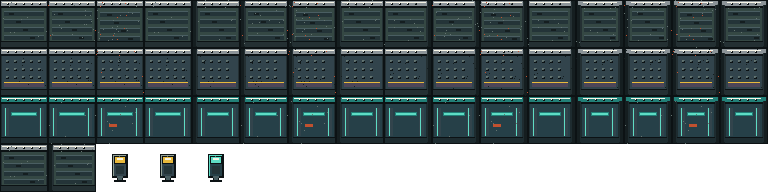
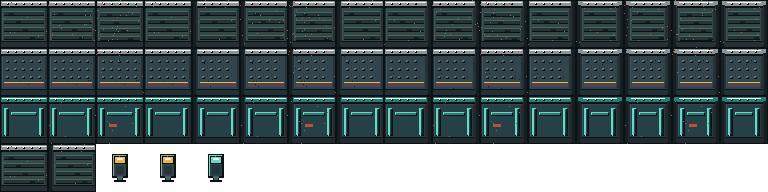
feat: denser wall volume, kit plates, and quieter actor lamp wash
Keep surveyor materials readable under the carried lamp while cliff
faces, hostiles, and title glass carry more named-palette mass.

diff --git a/src/art/paint/walls.ts b/src/art/paint/walls.ts
@@ -3,7 +3,7 @@ import { Material, Theme } from '../../scenes/theme';
 import { envPalette } from '../palette';
 import type { Frame } from '../pack';
 import { Px, TILE } from '../px';
-import { bevelRect, grit } from '../shade';
+import { bevelRect, grit, volume } from '../shade';
 
 export type WallStyle = 'cliff' | 'bulkhead' | 'conduit';
 export const WALL_WEAR_COUNT = 3;
@@ -45,6 +45,11 @@ function paintWall(style: WallStyle, role: number, wear: number): Px {
     TILE - 16,
     mix(face, Material.recess, 0.12),
   );
+  const faceLit =
+    style === 'cliff' ? Material.rockLit : style === 'bulkhead' ? Material.deckLit : mix(Material.conduit, Theme.biolum, 0.28);
+  px.fillRect(insetL + 1, 8, 1, TILE - 16, mix(face, faceLit, 0.55));
+  px.fillRect(insetL + 1, 8, TILE - insetL - insetR - 2, 1, mix(face, faceLit, 0.4));
+  px.fillRect(TILE - insetR - 2, 9, 1, TILE - 17, mix(face, Theme.groundDeep, 0.38));
   px.fillRect(insetL, 1, TILE - insetL - insetR, 5, crown);
   px.fillRect(insetL + 1, 2, TILE - insetL - insetR - 2, 1, Theme.inkBright);
   px.fillRect(insetL, 6, TILE - insetL - insetR, 2, Theme.groundDeep);
@@ -60,7 +65,8 @@ function paintWall(style: WallStyle, role: number, wear: number): Px {
     for (let i = 0; i < 4; i++) {
       const y = 11 + i * 8 + (wear === 2 ? 1 : 0);
       px.fillRect(insetL + 3, y, TILE - insetL - insetR - 6, 5, mix(Material.rock, Theme.groundDeep, 0.22));
-      px.fillRect(insetL + 3, y, TILE - insetL - insetR - 6, 1, mix(Theme.inkMute, face, 0.4));
+      px.fillRect(insetL + 3, y, TILE - insetL - insetR - 6, 1, Material.rockLit);
+      px.fillRect(insetL + 3, y + 4, TILE - insetL - insetR - 6, 1, Theme.groundDeep);
       px.fillRect(insetL + 8 + i * 7 + wear, y + 2, 5, 2, Material.recess);
     }
     grit(px, Theme.inkMute, 12 + wear * 6, 20 + role * 3 + wear);
@@ -79,12 +85,20 @@ function paintWall(style: WallStyle, role: number, wear: number): Px {
     if (wear === 2) grit(px, Theme.rust, 8, 99);
   } else {
     const pipe = mix(Material.conduit, Theme.biolumDeep, 0.3);
-    px.fillRect(insetL + 3, 12, 5, 28, pipe);
-    px.fillRect(TILE - insetR - 8, 12, 5, 28, pipe);
+    bevelRect(px, insetL + 3, 12, 5, 28, Theme.biolum, pipe, Theme.groundDeep, Theme.biolumDeep, Material.recess);
+    bevelRect(px, TILE - insetR - 8, 12, 5, 28, Theme.biolum, pipe, Theme.groundDeep, Theme.biolumDeep, Material.recess);
     px.fillRect(insetL + 4, 12, 1, 28, Theme.biolum);
     px.fillRect(TILE - insetR - 7, 12, 1, 28, Theme.biolum);
-    px.fillRect(insetL + 10, 16, TILE - insetL - insetR - 20, 4, Theme.biolumDeep);
-    px.fillRect(insetL + 11, 17, TILE - insetL - insetR - 22, 2, Theme.biolum);
+    bevelRect(
+      px,
+      insetL + 10,
+      16,
+      TILE - insetL - insetR - 20,
+      4,
+      Theme.biolum,
+      Theme.biolumDeep,
+      Theme.groundDeep,
+    );
     if (wear === 2) {
       px.fillRect(insetL + 12, 28, 8, 3, Theme.rust);
       grit(px, Theme.inkMute, 10, 55 + wear);
@@ -105,9 +119,11 @@ function paintSconce(style: WallStyle): Px {
   const body = cool ? Material.conduit : Material.deck;
   const glow = cool ? Theme.biolum : Theme.tape;
   bevelRect(px, 16, 10, 16, 24, Theme.inkMute, body, Theme.groundDeep, cool ? Theme.biolum : Theme.inkDim, Theme.groundDeep);
+  volume(px, body, Theme.inkMute, Theme.groundDeep, Theme.groundDeep, cool ? Theme.biolumDeep : Theme.inkDim);
   px.fillRect(18, 12, 12, 8, Theme.groundDeep);
   px.fillRect(19, 13, 10, 6, glow);
   px.fillRect(21, 14, 6, 2, Theme.inkBright);
+  px.set(22, 14, Theme.arcWhite);
   px.fillRect(20, 22, 8, 8, mix(body, Theme.groundDeep, 0.3));
   px.fillRect(21, 32, 6, 4, Theme.panelEdge);
   px.fillRect(18, 36, 12, 2, Theme.groundDeep);

diff --git a/src/art/paint/actors.ts b/src/art/paint/actors.ts
@@ -56,6 +56,9 @@ function paintShape(
       }
       px.fillEllipse(24, 32 + bob, 16, 8, mid);
       volume(px, mid, lit, deep, rim, lift);
+      bevelRect(px, 12, 28 + bob, 8, 5, lit, mid, deep, lift, rim);
+      bevelRect(px, 20, 27 + bob, 8, 6, lit, mid, deep, lift, rim);
+      bevelRect(px, 28, 28 + bob, 8, 5, lit, mid, deep, lift, rim);
       px.fillRect(12, 28 + bob, 24, 2, lit);
       px.fillRect(10, 31 + bob, 4, 3, deep);
       px.fillRect(34, 31 + bob, 4, 3, deep);
@@ -152,6 +155,8 @@ function paintShape(
           jointLeg(px, lx, 34 + bob, 43 + bob, kick, deep, rim);
         }
         volume(px, mid, lit, deep, rim, lift);
+        bevelRect(px, 16, 26 + bob, 8, 5, lit, mid, deep, lift, rim);
+        bevelRect(px, 24, 26 + bob, 8, 5, lit, mid, deep, lift, rim);
         px.fillRect(17, 28 + bob, 14, 2, threat);
         eyes(px, 24, 27 + bob, 5, 2, ion);
       } else if (kind === 'reef_skitter') {
@@ -196,6 +201,7 @@ function paintShape(
       px.fillRect(8, 10 + bob, 32, 28, mid);
       px.fillTriangle(44, 42 + bob, 38, 10 + bob, 10, 10 + bob, mid);
       volume(px, mid, lit, deep, rim, lift);
+      bevelRect(px, 12, 12 + bob, 24, 8, lit, mid, deep, lift, rim);
       px.fillRect(12, 22 + bob, 24, 2, deep);
       px.fillRect(12, 30 + bob, 24, 2, deep);
       px.fillRect(12, 16 + bob, 24, 3, Theme.tape);
@@ -259,6 +265,7 @@ function paintShape(
       px.fillEllipse(24, 28 + bob, 11, 7, mid);
       px.fillRect(21 + lean, 10 + bob, 6, 16, mid);
       volume(px, mid, lit, deep, rim, lift);
+      bevelRect(px, 21 + lean, 16 + bob, 6, 12, lit, mid, deep, lift, rim);
       px.fillTriangle(16 + lean, 12 + bob, 32 + lean, 12 + bob, 24 + lean, 2 + bob, rim);
       px.fillRect(20 + lean, 11 + bob, 3, 4, threat);
       px.fillRect(25 + lean, 11 + bob, 3, 4, threat);
@@ -341,6 +348,7 @@ function paintPlayer(frame: number): Px {
   px.fillRect(29, 18 + bob, 8, 1, Theme.inkBright);
   px.fillRect(31, 22 + bob, 5, 6, Material.suitMid);
   px.fillRect(32, 23 + bob, 3, 2, Theme.biolum);
+  px.set(33, 23 + bob, Theme.arcWhite);
   px.fillRect(36, 14 + bob, 3, 4, Theme.panelEdge);
   px.set(37, 13 + bob, Theme.tape);
   grit(px, Theme.inkMute, 4, 5 + frame);

diff --git a/src/scenes/atmosphere.ts b/src/scenes/atmosphere.ts
@@ -76,8 +76,10 @@ export function drawPlate(
   g.fillStyle(Theme.panelEdge, 0.45 * bevel);
   g.fillRect(x, y + 1, 1, h - 2);
   if (w > 4 && h > 4) {
-    g.fillStyle(Theme.inkMute, 0.12 * bevel);
+    g.fillStyle(Theme.inkMute, 0.18 * bevel);
     g.fillRect(x + 1, y + 2, w - 2, 1);
+    g.fillStyle(Theme.panelEdge, 0.22 * bevel);
+    g.fillRect(x + 1, y + 2, 1, h - 4);
   }
 }
 
@@ -263,12 +265,16 @@ export function drawTitleWindow(
   g.fillRect(vx, vy, vw, vh);
   g.fillStyle(shade(Theme.groundDeep, 0.88), 1);
   g.fillRect(vx + 2, vy + 2, vw - 4, vh - 4);
-  g.fillStyle(Theme.panelEdge, 0.35);
+  g.fillStyle(Theme.panelEdge, 0.55);
   g.fillRect(vx, vy, vw, 1);
+  g.fillStyle(Theme.inkDim, 0.28);
+  g.fillRect(vx + 1, vy + 1, vw - 2, 1);
   g.fillStyle(Theme.groundDeep, 1);
   g.fillRect(vx, vy + vh - 1, vw, 1);
+  g.fillStyle(Theme.groundDeep, 0.55);
+  g.fillRect(vx + vw - 1, vy, 1, vh);
 
-  for (let i = 0; i < 18; i++) {
+  for (let i = 0; i < 22; i++) {
     const fx = vx + 4 + grain(i, 41) * (vw - 8);
     const fy = vy + 4 + grain(i + 90, 41) * (vh - 8);
     g.fillStyle(Theme.inkDim, 0.08 + grain(i, 41) * 0.06);
@@ -276,13 +282,20 @@ export function drawTitleWindow(
   }
 
   const horizon = vy + Math.floor(vh * 0.64);
-  g.fillStyle(Theme.ground, 0.4);
+  g.fillStyle(Theme.ground, 0.28);
+  g.fillRect(vx + 8, horizon, vw - 16, vh - (horizon - vy) - 8);
+  g.fillStyle(Theme.ground, 0.5);
   g.fillRect(vx + 8, horizon, vw - 16, 1);
+  g.fillStyle(Theme.groundDeep, 0.55);
+  g.fillTriangle(vx + 28, horizon, vx + 72, horizon - 18, vx + 110, horizon);
+  g.fillTriangle(vx + vw - 140, horizon, vx + vw - 88, horizon - 12, vx + vw - 40, horizon);
 
-  // Stepped scan tick — slow crawl across the glass.
+  // Stepped scan tick — chartreuse survey wash, not phosphor.
   const tickX = vx + 4 + ((phase % 1) * (vw - 8));
-  g.fillStyle(Theme.biolum, 0.14);
+  g.fillStyle(Theme.scanWash, 0.12);
   g.fillRect(Math.floor(tickX), vy + 4, 2, vh - 8);
+  g.fillStyle(Theme.tape, 0.55);
+  g.fillRect(vx + 8, vy + 4, Math.min(48, vw - 16), 2);
 
   const arm = 10;
   g.lineStyle(1, Theme.inkMute, 0.45);

diff --git a/src/game/views/LightView.ts b/src/game/views/LightView.ts
@@ -503,7 +503,7 @@ export class LightView {
           TILE_DRAW * (isSconce ? 0.16 : personal ? 0.16 : 0.2) * gain,
         ),
       );
-      this.lightsGfx.fillStyle(s.color, aCore * (isSconce ? 0.32 : personal ? 0.26 : 0.28));
+      this.lightsGfx.fillStyle(s.color, aCore * (isSconce ? 0.38 : personal ? 0.34 : 0.32));
       this.lightsGfx.fillCircle(wx, wy, core);
     }
   }
@@ -937,7 +937,7 @@ export class LightView {
         // Lit floor stays warm metal; lamp pull + lift so the pool reads as light, not chalk.
         tint = blendTowardWhite(tint, Math.pow(brightness, 1.05) * 0.46 * reflect);
         if (isWallFace && brightness >= SHADOW_THRESHOLD) {
-          tint = blendTowardWhite(tint, 0.1 * brightness);
+          tint = blendTowardWhite(tint, 0.16 * brightness);
         }
         if (st.emStress >= EM_HIGH) {
           // Sickly scan wash — intensity already in sim ambient; hue is present-only.
@@ -1045,8 +1045,8 @@ export class LightView {
         pull += E;
         acc = multiplyTint(acc, sources[i]!.color, Math.min(1, E * 0.7));
       }
-      if (pull < 0.06) return null;
-      return multiplyTint(0xffffff, acc, Math.min(0.48, pull * 0.42));
+      if (pull < 0.08) return null;
+      return multiplyTint(0xffffff, acc, Math.min(0.26, pull * 0.22));
     };
 
     // Mid-hop: sample from the carried lamp so alpha matches wash/tint, not dest tile.
